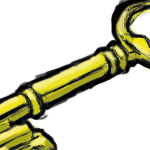
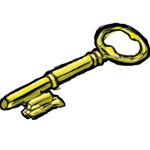
flipped image
noticed image flipped on the hud so flipped it right

diff --git a/My Name Is Abigail/Hud.cpp b/My Name Is Abigail/Hud.cpp
@@ -49,15 +49,16 @@ void Hud::draw()
 
 		//draw inventory
 		int position = 0;
+		sf::Texture thisItemTex;
+		sf::Sprite thisItemSprite;
+        thisItemSprite.setScale( 1, -1);
 		for(unsigned int i=0; i<items.size(); ++i)
         {
             GameObject * thisItem = items[i];
-            sf::Texture thisItemTex;
             thisItemTex.loadFromImage( Texture::getImage( ("models/" + thisItem->getName() + ".png").c_str() ) );
-            sf::Sprite thisItemSprite;
             thisItemSprite.setTexture( thisItemTex );
             position = (10 + ((i+1) * 85) + (i * 150));
-            thisItemSprite.setPosition( position, window->getSize().y - 175 );
+            thisItemSprite.setPosition( position, window->getSize().y - 25 );
             window->draw(thisItemSprite);
         }
 
